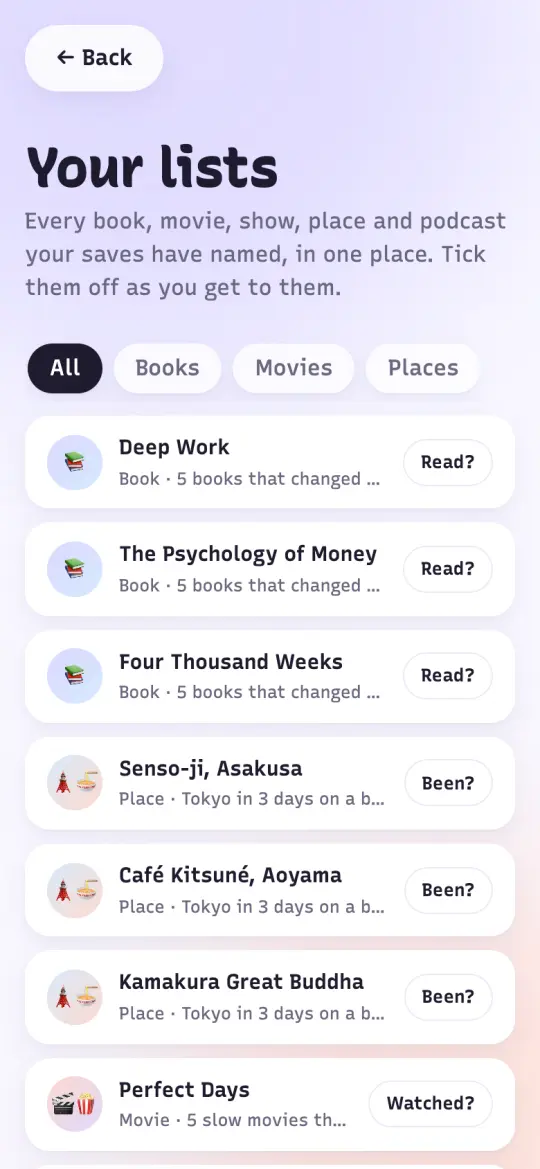
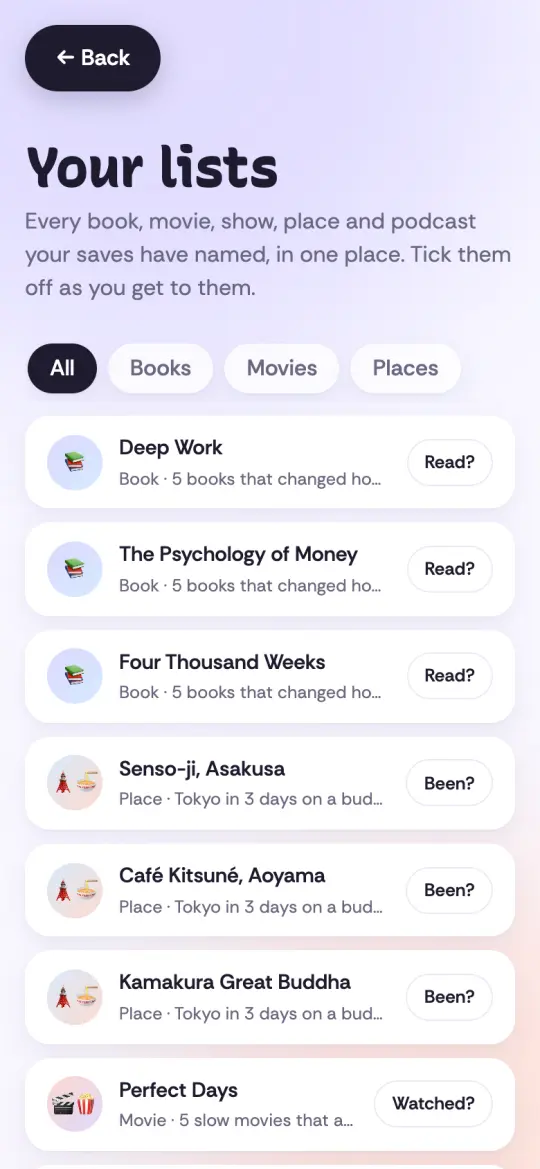
Type: Recursive Casual headings + Rethink Sans UI; black back button
Recursive in small UI text looked unprofessional, so UI and body go back to
Rethink Sans; display loads only the CASL 1 / 800 instance. The floating
Back button is ink so it no longer blends into cards, and steps after an
action row get room to breathe. Screenshots, og image and launch video redone.

diff --git a/worker/public/index.html b/worker/public/index.html
@@ -19,10 +19,10 @@
 <meta name="apple-mobile-web-app-capable" content="yes">
 <link rel="preconnect" href="https://fonts.googleapis.com">
 <link rel="preconnect" href="https://fonts.gstatic.com" crossorigin>
-<link href="https://fonts.googleapis.com/css2?family=Recursive:wght,CASL@300..1000,0..1&display=swap" rel="stylesheet">
+<link href="https://fonts.googleapis.com/css2?family=Recursive:wght,CASL@800,1&family=Rethink+Sans:wght@400;500;600&display=swap" rel="stylesheet">
 <style>
 /* Design language borrowed from the portfolio's "ethereal" theme: cool lavender-white
-   ground, lavender / mint / peach pastels, Recursive (Casual for display, Linear for UI),
+   ground, lavender / mint / peach pastels, Recursive Casual (display) + Rethink Sans (UI),
    generously rounded corners, soft low-alpha elevation. Light mode only, by choice. */
 :root {
   --bg: #f8f7ff; --surface: #ffffff; --ink: #1d1b2e; --muted: #6a6880; --line: #ebe8f7;
@@ -32,7 +32,7 @@
   --lift-1: 0 1px 2px rgb(60 50 120 / .05), 0 6px 18px rgb(60 50 120 / .07);
   --lift-2: 0 4px 10px rgb(60 50 120 / .08), 0 18px 40px rgb(60 50 120 / .12);
   --display: "Recursive", ui-rounded, system-ui, sans-serif;
-  --ui: "Recursive", ui-sans-serif, -apple-system, system-ui, sans-serif;
+  --ui: "Rethink Sans", ui-sans-serif, -apple-system, system-ui, sans-serif;
   --mono: ui-monospace, "SF Mono", Menlo, monospace;
 }
 * { box-sizing: border-box; }
@@ -56,7 +56,7 @@ button { cursor: pointer; }
 
 header { padding: 22px 0 6px; }
 .topbar { position: sticky; top: calc(env(safe-area-inset-top) + 10px); z-index: 4; width: fit-content; margin-top: 18px; }
-.topbar .btn { background: rgb(255 255 255 / .84); -webkit-backdrop-filter: blur(16px) saturate(180%); backdrop-filter: blur(16px) saturate(180%); }
+.topbar .btn, .topbar .btn.soft { background: var(--ink); color: #fff; box-shadow: 0 6px 18px rgb(29 27 46 / .22); }
 .row { display: flex; gap: 10px; align-items: center; flex-wrap: wrap; }
 .brand { font-family: var(--display); font-weight: 800; font-variation-settings: "CASL" 1; font-size: 32px; line-height: 1; letter-spacing: -.02em; margin: 0; flex: 1; display: inline-flex; align-items: center; gap: .26em; }
 .brand img { width: 1.02em; height: 1.02em; flex: none; }
@@ -386,6 +386,7 @@ body.sheet-open .sheet { transform: none; visibility: visible; transition-delay:
 .tabs button { border: 0; background: transparent; border-radius: 999px; height: 34px; padding: 0 16px; font-weight: 500; color: var(--muted); }
 .tabs button[aria-selected=true] { background: #fff; color: var(--ink); box-shadow: var(--lift-1); }
 ol.steps { list-style: none; margin: 0; padding: 0; counter-reset: s; }
+.inline-actions + ol.steps { margin-top: 20px; }
 ol.steps li { counter-increment: s; position: relative; padding: 2px 0 16px 42px; }
 ol.steps li::before { content: counter(s); position: absolute; left: 0; top: 0; width: 30px; height: 30px; border-radius: 50%; background: var(--lavender); display: grid; place-items: center; font-weight: 600; font-size: 14px; }
 ol.steps li b { display: block; }

diff --git a/worker/public/authorize.html b/worker/public/authorize.html
@@ -2,20 +2,20 @@
 <html lang="en"><head><meta charset="utf-8"><meta name="viewport" content="width=device-width, initial-scale=1">
 <title>Connect · Skwirl</title><meta name="theme-color" content="#f8f7ff"><link rel="icon" href="/favicon.svg" type="image/svg+xml"><meta name="robots" content="noindex">
 <link rel="preconnect" href="https://fonts.googleapis.com"><link rel="preconnect" href="https://fonts.gstatic.com" crossorigin>
-<link href="https://fonts.googleapis.com/css2?family=Recursive:wght,CASL@300..1000,0..1&display=swap" rel="stylesheet">
+<link href="https://fonts.googleapis.com/css2?family=Recursive:wght,CASL@800,1&family=Rethink+Sans:wght@400;500;600&display=swap" rel="stylesheet">
 <style>
 :root { --bg:#f8f7ff; --ink:#1d1b2e; --muted:#6a6880; --lavender:#dcd8ff; --line:#ebe8f7; }
 * { box-sizing:border-box; } html { color-scheme: light; }
-body { margin:0; min-height:100vh; display:grid; place-items:center; background:var(--bg); color:var(--ink); font:16px/1.55 Recursive, ui-sans-serif, system-ui, sans-serif; padding:24px 16px; }
+body { margin:0; min-height:100vh; display:grid; place-items:center; background:var(--bg); color:var(--ink); font:16px/1.55 "Rethink Sans", ui-sans-serif, system-ui, sans-serif; padding:24px 16px; }
 main { width:100%; max-width:440px; background:#fff; border-radius:28px; padding:30px 24px; box-shadow:0 4px 10px rgb(60 50 120 / .08), 0 18px 40px rgb(60 50 120 / .10); }
-h1 { font-weight:800; font-variation-settings:"CASL" 1; font-size:30px; line-height:1.1; margin:14px 0 10px; }
-.brand { display:flex; align-items:center; gap:8px; font-weight:800; font-variation-settings:"CASL" 1; font-size:22px; }
+h1 { font-family:Recursive, system-ui, sans-serif; font-weight:800; font-variation-settings:"CASL" 1; font-size:30px; line-height:1.1; margin:14px 0 10px; }
+.brand { display:flex; align-items:center; gap:8px; font-family:Recursive, system-ui, sans-serif; font-weight:800; font-variation-settings:"CASL" 1; font-size:22px; }
 .brand img { width:28px; height:28px; }
 ul { padding-left:20px; margin:14px 0; color:var(--muted); } li { margin-bottom:4px; }
 .row { display:flex; gap:10px; margin-top:22px; }
-button { flex:1; height:50px; border-radius:999px; border:0; font:600 16px Recursive, system-ui, sans-serif; cursor:pointer; }
+button { flex:1; height:50px; border-radius:999px; border:0; font:600 16px "Rethink Sans", system-ui, sans-serif; cursor:pointer; }
 .go { background:var(--ink); color:#fff; } .no { background:var(--bg); color:var(--ink); }
-input { width:100%; height:48px; border:1px solid var(--line); border-radius:14px; padding:0 14px; font:15px Recursive, system-ui, sans-serif; margin-top:6px; }
+input { width:100%; height:48px; border:1px solid var(--line); border-radius:14px; padding:0 14px; font:15px "Rethink Sans", system-ui, sans-serif; margin-top:6px; }
 .err { color:#b3261e; font-size:14px; min-height:1em; margin:12px 0 0; } .muted { color:var(--muted); font-size:14px; }
 [hidden] { display:none !important; }
 </style></head><body><main>

diff --git a/promo/src/launch/kit.tsx b/promo/src/launch/kit.tsx
@@ -1,20 +1,21 @@
 import React from "react";
 import { AbsoluteFill, continueRender, delayRender, Easing, interpolate, spring, useCurrentFrame, useVideoConfig } from "remotion";
 import type { Caption } from "@remotion/captions";
+import { loadFont as loadRethink } from "@remotion/google-fonts/RethinkSans";
 import { ACORN, CENTRELINE, CENTRELINE_LENGTH, MAX_WIDTH, TAIL } from "./markGeometry";
 
-// Recursive, as on the site: Casual (CASL 1) for display, Linear (CASL 0, the default) for UI.
-// @remotion/google-fonts can't set the CASL axis, so load Google's variable CSS directly.
+// As on the site: Recursive Casual (CASL 1, 800) for display, Rethink Sans for UI.
+// @remotion/google-fonts can't set Recursive's CASL axis, so load Google's CSS for that instance directly.
 if (typeof document !== "undefined" && !document.getElementById("recursive")) {
   const h = delayRender("Recursive font");
   const l = Object.assign(document.createElement("link"), { id: "recursive", rel: "stylesheet",
-    href: "https://fonts.googleapis.com/css2?family=Recursive:wght,CASL@300..1000,0..1&display=block" });
-  l.onload = () => Promise.all(["800 100px Recursive", "500 30px Recursive"].map((x) => document.fonts.load(x))).then(() => continueRender(h));
+    href: "https://fonts.googleapis.com/css2?family=Recursive:wght,CASL@800,1&display=block" });
+  l.onload = () => document.fonts.load("800 100px Recursive").then(() => continueRender(h));
   l.onerror = () => continueRender(h);
   document.head.appendChild(l);
 }
 export const display = "Recursive";
-export const ui = "Recursive";
+export const ui = loadRethink("normal", { weights: ["400", "500", "600"] }).fontFamily;
 export const D: React.CSSProperties = { fontFamily: display, fontWeight: 800, fontVariationSettings: '"CASL" 1' };
 
 // The app's own tokens (worker/public/index.html :root).

diff --git a/worker/public/privacy.html b/worker/public/privacy.html
@@ -2,11 +2,11 @@
 <html lang="en"><head><meta charset="utf-8"><meta name="viewport" content="width=device-width, initial-scale=1">
 <title>Privacy · Skwirl</title><meta name="theme-color" content="#f8f7ff"><link rel="icon" href="/favicon.svg" type="image/svg+xml">
 <link rel="preconnect" href="https://fonts.googleapis.com"><link rel="preconnect" href="https://fonts.gstatic.com" crossorigin>
-<link href="https://fonts.googleapis.com/css2?family=Recursive:wght,CASL@300..1000,0..1&display=swap" rel="stylesheet">
+<link href="https://fonts.googleapis.com/css2?family=Recursive:wght,CASL@800,1&family=Rethink+Sans:wght@400;500;600&display=swap" rel="stylesheet">
 <style>
 :root { --bg:#f8f7ff; --ink:#1d1b2e; --muted:#6a6880; --lavender:#dcd8ff; }
 * { box-sizing:border-box; } html { color-scheme: light; }
-body { margin:0; background:var(--bg); color:var(--ink); font:16px/1.6 Recursive, ui-sans-serif, system-ui, sans-serif; padding:24px 18px 60px; }
+body { margin:0; background:var(--bg); color:var(--ink); font:16px/1.6 "Rethink Sans", ui-sans-serif, system-ui, sans-serif; padding:24px 18px 60px; }
 main { max-width:680px; margin:0 auto; background:#fff; border-radius:28px; padding:28px 24px; box-shadow:0 4px 10px rgb(60 50 120 / .08), 0 18px 40px rgb(60 50 120 / .10); }
 h1 { font-family:Recursive, system-ui, sans-serif; font-weight:800; font-variation-settings:"CASL" 1; font-size:36px; line-height:1.1; margin:6px 0 4px; }
 h2 { font-family:Recursive, system-ui, sans-serif; font-weight:800; font-variation-settings:"CASL" 1; font-size:22px; margin:26px 0 6px; }

diff --git a/worker/public/terms.html b/worker/public/terms.html
@@ -2,11 +2,11 @@
 <html lang="en"><head><meta charset="utf-8"><meta name="viewport" content="width=device-width, initial-scale=1">
 <title>Terms · Skwirl</title><meta name="theme-color" content="#f8f7ff"><link rel="icon" href="/favicon.svg" type="image/svg+xml">
 <link rel="preconnect" href="https://fonts.googleapis.com"><link rel="preconnect" href="https://fonts.gstatic.com" crossorigin>
-<link href="https://fonts.googleapis.com/css2?family=Recursive:wght,CASL@300..1000,0..1&display=swap" rel="stylesheet">
+<link href="https://fonts.googleapis.com/css2?family=Recursive:wght,CASL@800,1&family=Rethink+Sans:wght@400;500;600&display=swap" rel="stylesheet">
 <style>
 :root { --bg:#f8f7ff; --ink:#1d1b2e; --muted:#6a6880; --lavender:#dcd8ff; }
 * { box-sizing:border-box; } html { color-scheme: light; }
-body { margin:0; background:var(--bg); color:var(--ink); font:16px/1.6 Recursive, ui-sans-serif, system-ui, sans-serif; padding:24px 18px 60px; }
+body { margin:0; background:var(--bg); color:var(--ink); font:16px/1.6 "Rethink Sans", ui-sans-serif, system-ui, sans-serif; padding:24px 18px 60px; }
 main { max-width:680px; margin:0 auto; background:#fff; border-radius:28px; padding:28px 24px; box-shadow:0 4px 10px rgb(60 50 120 / .08), 0 18px 40px rgb(60 50 120 / .10); }
 h1 { font-family:Recursive, system-ui, sans-serif; font-weight:800; font-variation-settings:"CASL" 1; font-size:36px; line-height:1.1; margin:6px 0 4px; }
 h2 { font-family:Recursive, system-ui, sans-serif; font-weight:800; font-variation-settings:"CASL" 1; font-size:22px; margin:26px 0 6px; }

diff --git a/worker/src/share.ts b/worker/src/share.ts
@@ -95,11 +95,11 @@ const page = (title: string, body: string, meta: string) => `<!doctype html>
 <meta name="viewport" content="width=device-width, initial-scale=1">
 <title>${esc(title)} · Skwirl</title>${meta}
 <link rel="icon" href="/icon-192.png">
-<link href="https://fonts.googleapis.com/css2?family=Recursive:wght,CASL@300..1000,0..1&display=swap" rel="stylesheet">
+<link href="https://fonts.googleapis.com/css2?family=Recursive:wght,CASL@800,1&family=Rethink+Sans:wght@400;500;600&display=swap" rel="stylesheet">
 <style>
 :root { --bg:#f8f7ff; --ink:#1d1b2e; --muted:#6a6880; --lavender:#dcd8ff; --peach:#ffd8cb; }
 * { box-sizing: border-box; }
-body { margin:0; background:var(--bg); color:var(--ink); font:17px/1.55 Recursive, system-ui, sans-serif; padding:24px 18px 60px; }
+body { margin:0; background:var(--bg); color:var(--ink); font:17px/1.55 "Rethink Sans", system-ui, sans-serif; padding:24px 18px 60px; }
 main { max-width:640px; margin:0 auto; }
 .top { display:inline-flex; align-items:center; gap:7px; font-family:Recursive, system-ui, sans-serif; font-weight:800; font-variation-settings:"CASL" 1; font-size:26px; color:inherit; text-decoration:none; }
 .top img { width:27px; height:27px; }

diff --git a/DESIGN.md b/DESIGN.md
@@ -40,7 +40,7 @@ visual language of the portfolio's "ethereal" theme (`portfolio-v2/components/et
 - **Light mode only.** Ground `#f8f7ff`, soft drifting lavender/peach orbs behind content.
 - **Pastels:** lavender `#dcd8ff`, mint `#cdf3e1`, peach `#ffd8cb`, sky `#d6ebff`, butter `#fff0c4`. Each topic gets a fixed tint; cards lead with a big serif initial until real thumbnails exist.
 - **Peach means "unused"** (the badge and counter). It's the one semantic colour: the unused count is the product's core metric.
-- **Type:** Recursive, one variable family: Casual (CASL 1, weight 800) for the wordmark, titles and section heads; Linear (CASL 0) for UI and body. Picked by the owner on 2026-11-03 over Calistoga + Rethink Sans (which had replaced Gloock + Familjen Grotesk the same day): friendlier and less "cookbook serif", and one family means no pairing to get wrong.
+- **Type:** Recursive Casual (CASL 1, weight 800, loaded as that single static instance) for the wordmark, titles and section heads; Rethink Sans for UI and body. Settled 2026-11-03 after trying Recursive for everything (looked unprofessional in small UI text) and Calistoga + Rethink Sans before that.
 - **Shape:** generous radii (cards 24px, hero 32px, sheets 28px, everything interactive is a pill), soft low-alpha elevation instead of borders.
 - **Logo (2026-10-29):** a squirrel tail drawn as one tapered swirl, coral acorn tucked in the curl. Sources and rules in `design/logo/`.
 - **Motion:** cards rise + fade with a short stagger, press = scale .97, bottom sheet slides in; all disabled under reduced-motion.

diff --git a/promo/LAUNCH_VIDEO.md b/promo/LAUNCH_VIDEO.md
@@ -15,7 +15,7 @@
 | 23–27s | Claude: "What was that pasta recipe I saved?" → "Searched Skwirl" → the answer | Rebuilt chat, answer text from the demo note |
 | 27–31s | Logo, "The reels you save, finally useful.", the URL | |
 
-Headlines appear word by word (Recursive Casual, loaded from Google Fonts in `kit.tsx` so the CASL axis works) on the voice's own word timestamps, so the video reads with the sound off.
+Headlines appear word by word (Recursive Casual, loaded from Google Fonts in `kit.tsx` so the CASL axis works; small text is Rethink Sans) on the voice's own word timestamps, so the video reads with the sound off.
 
 ## Free tools used
 

diff --git a/HANDOFF.md b/HANDOFF.md
@@ -22,7 +22,7 @@ doesn't wait to be asked.**
 
 ## 2026-11-03: matching Stashr AI, still free
 
-Fonts are Recursive (Casual display, Linear UI). Added: OAuth 2.1 for the connector at `POST /mcp`
+Fonts: Recursive Casual for display, Rethink Sans for UI. Added: OAuth 2.1 for the connector at `POST /mcp`
 (`worker/src/oauth.ts`; consent page `public/authorize.html` reuses the web sign-in token;
 `/mcp/<token>` still works), a `save_link` MCP tool, Instagram export import (`POST /v1/import`;
 the app unzips on-device; imports queue behind live saves at 5/day per person on the shared key,
